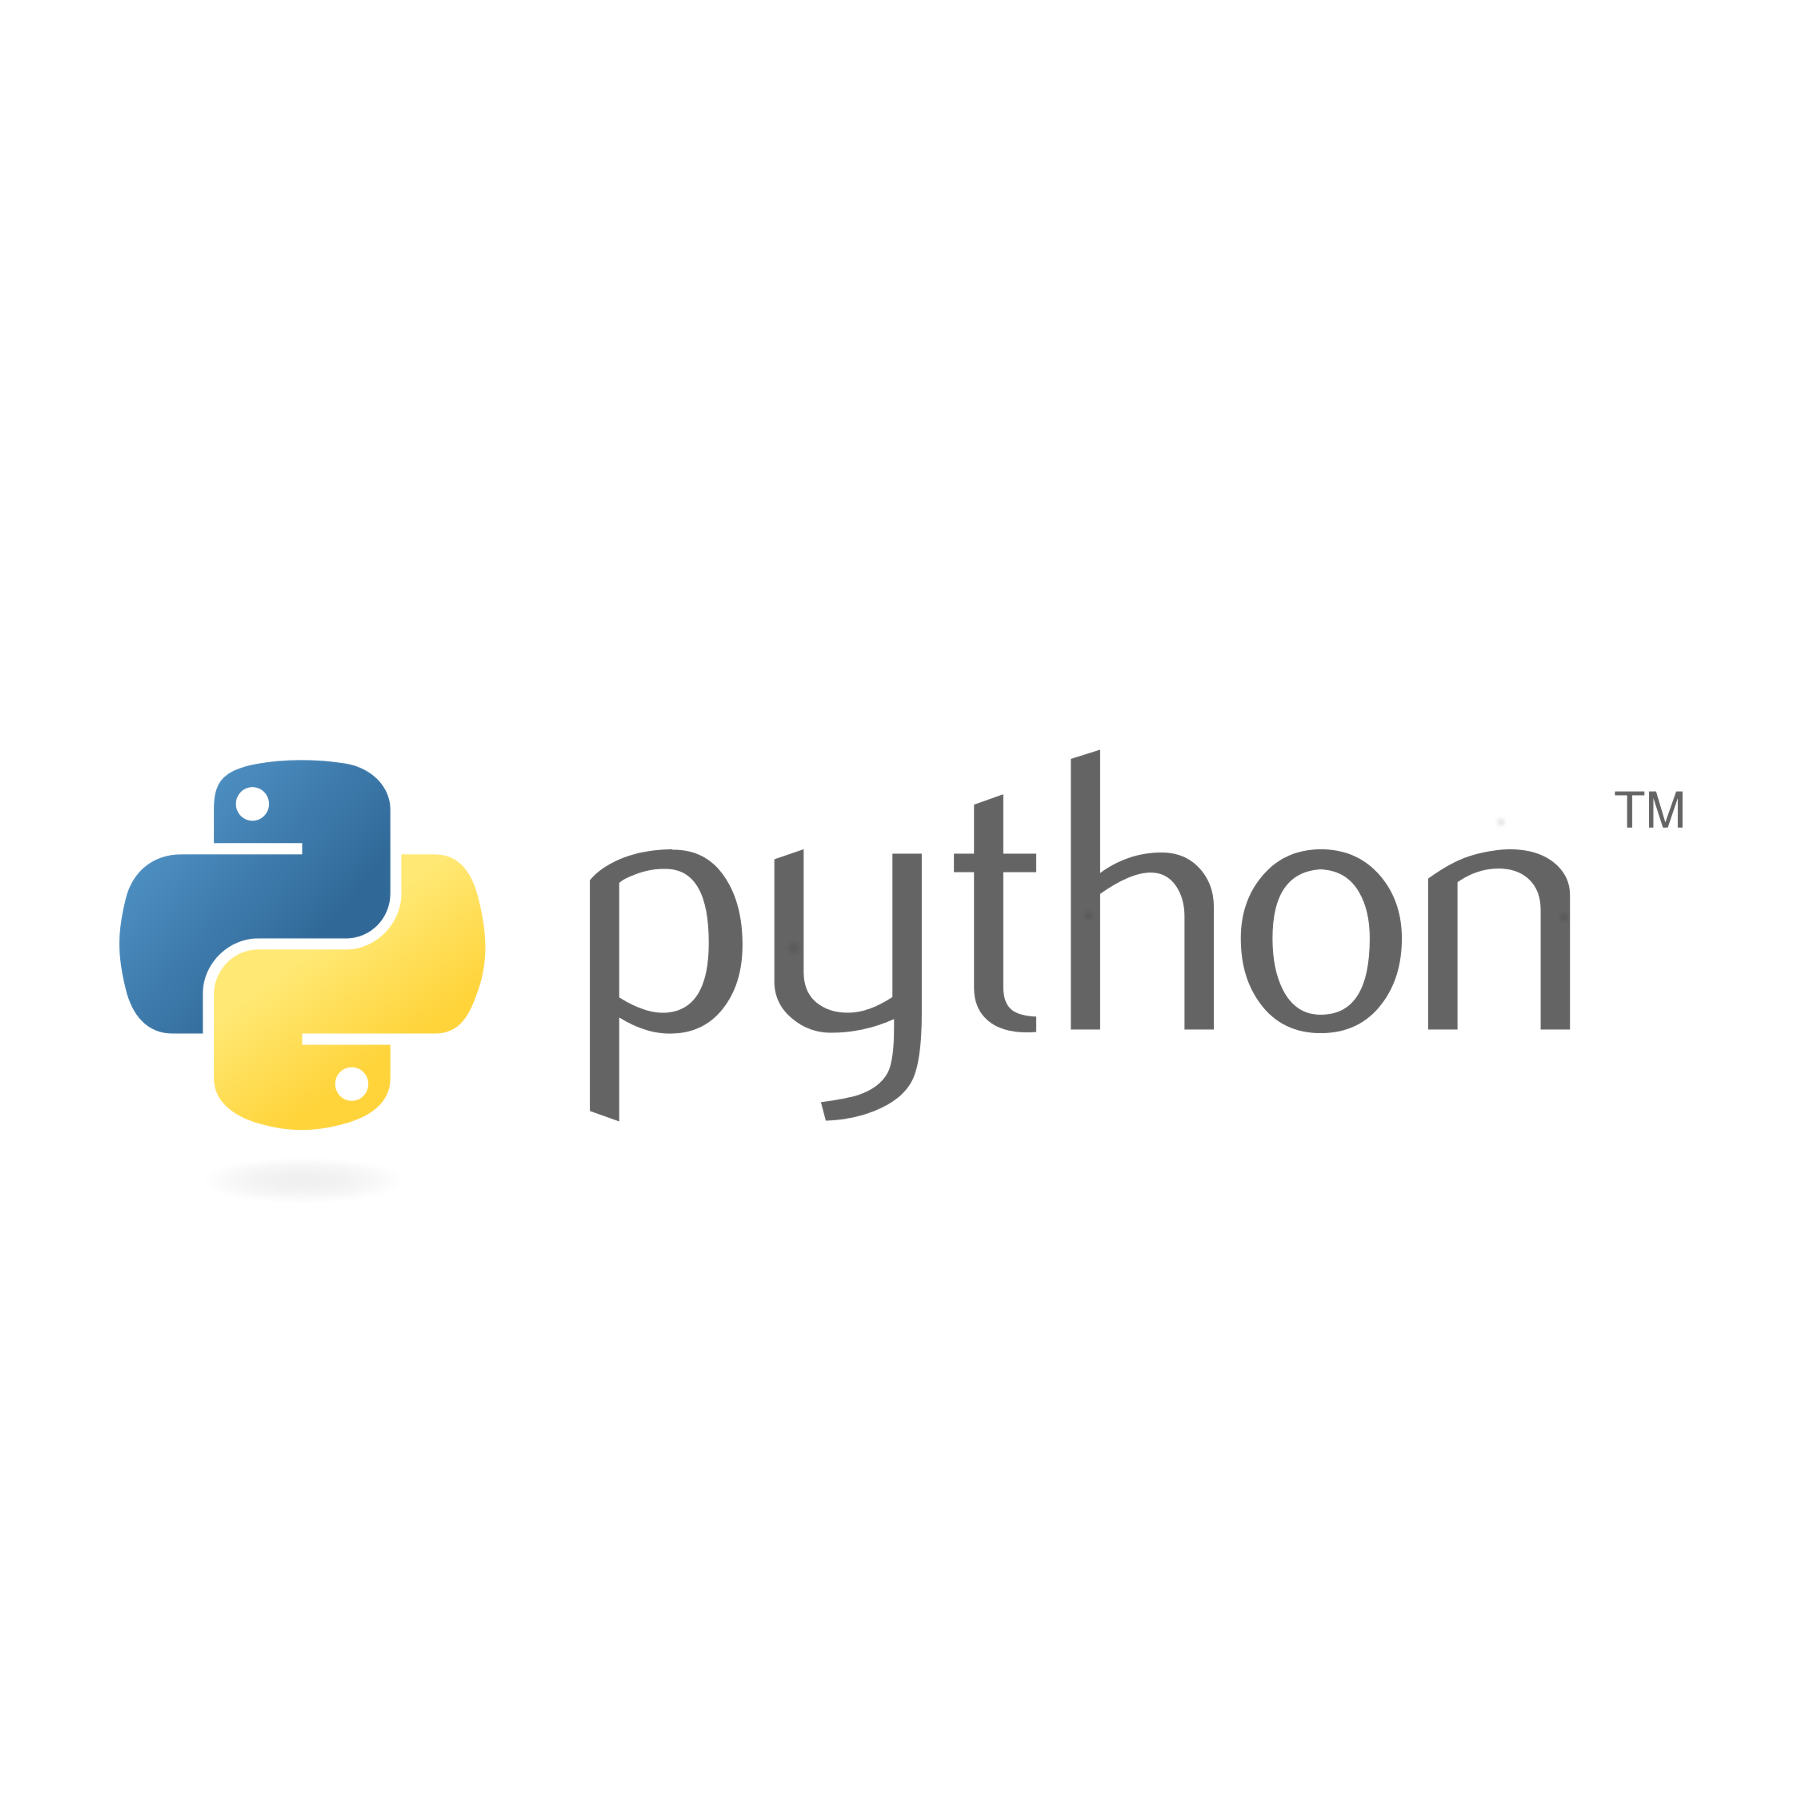
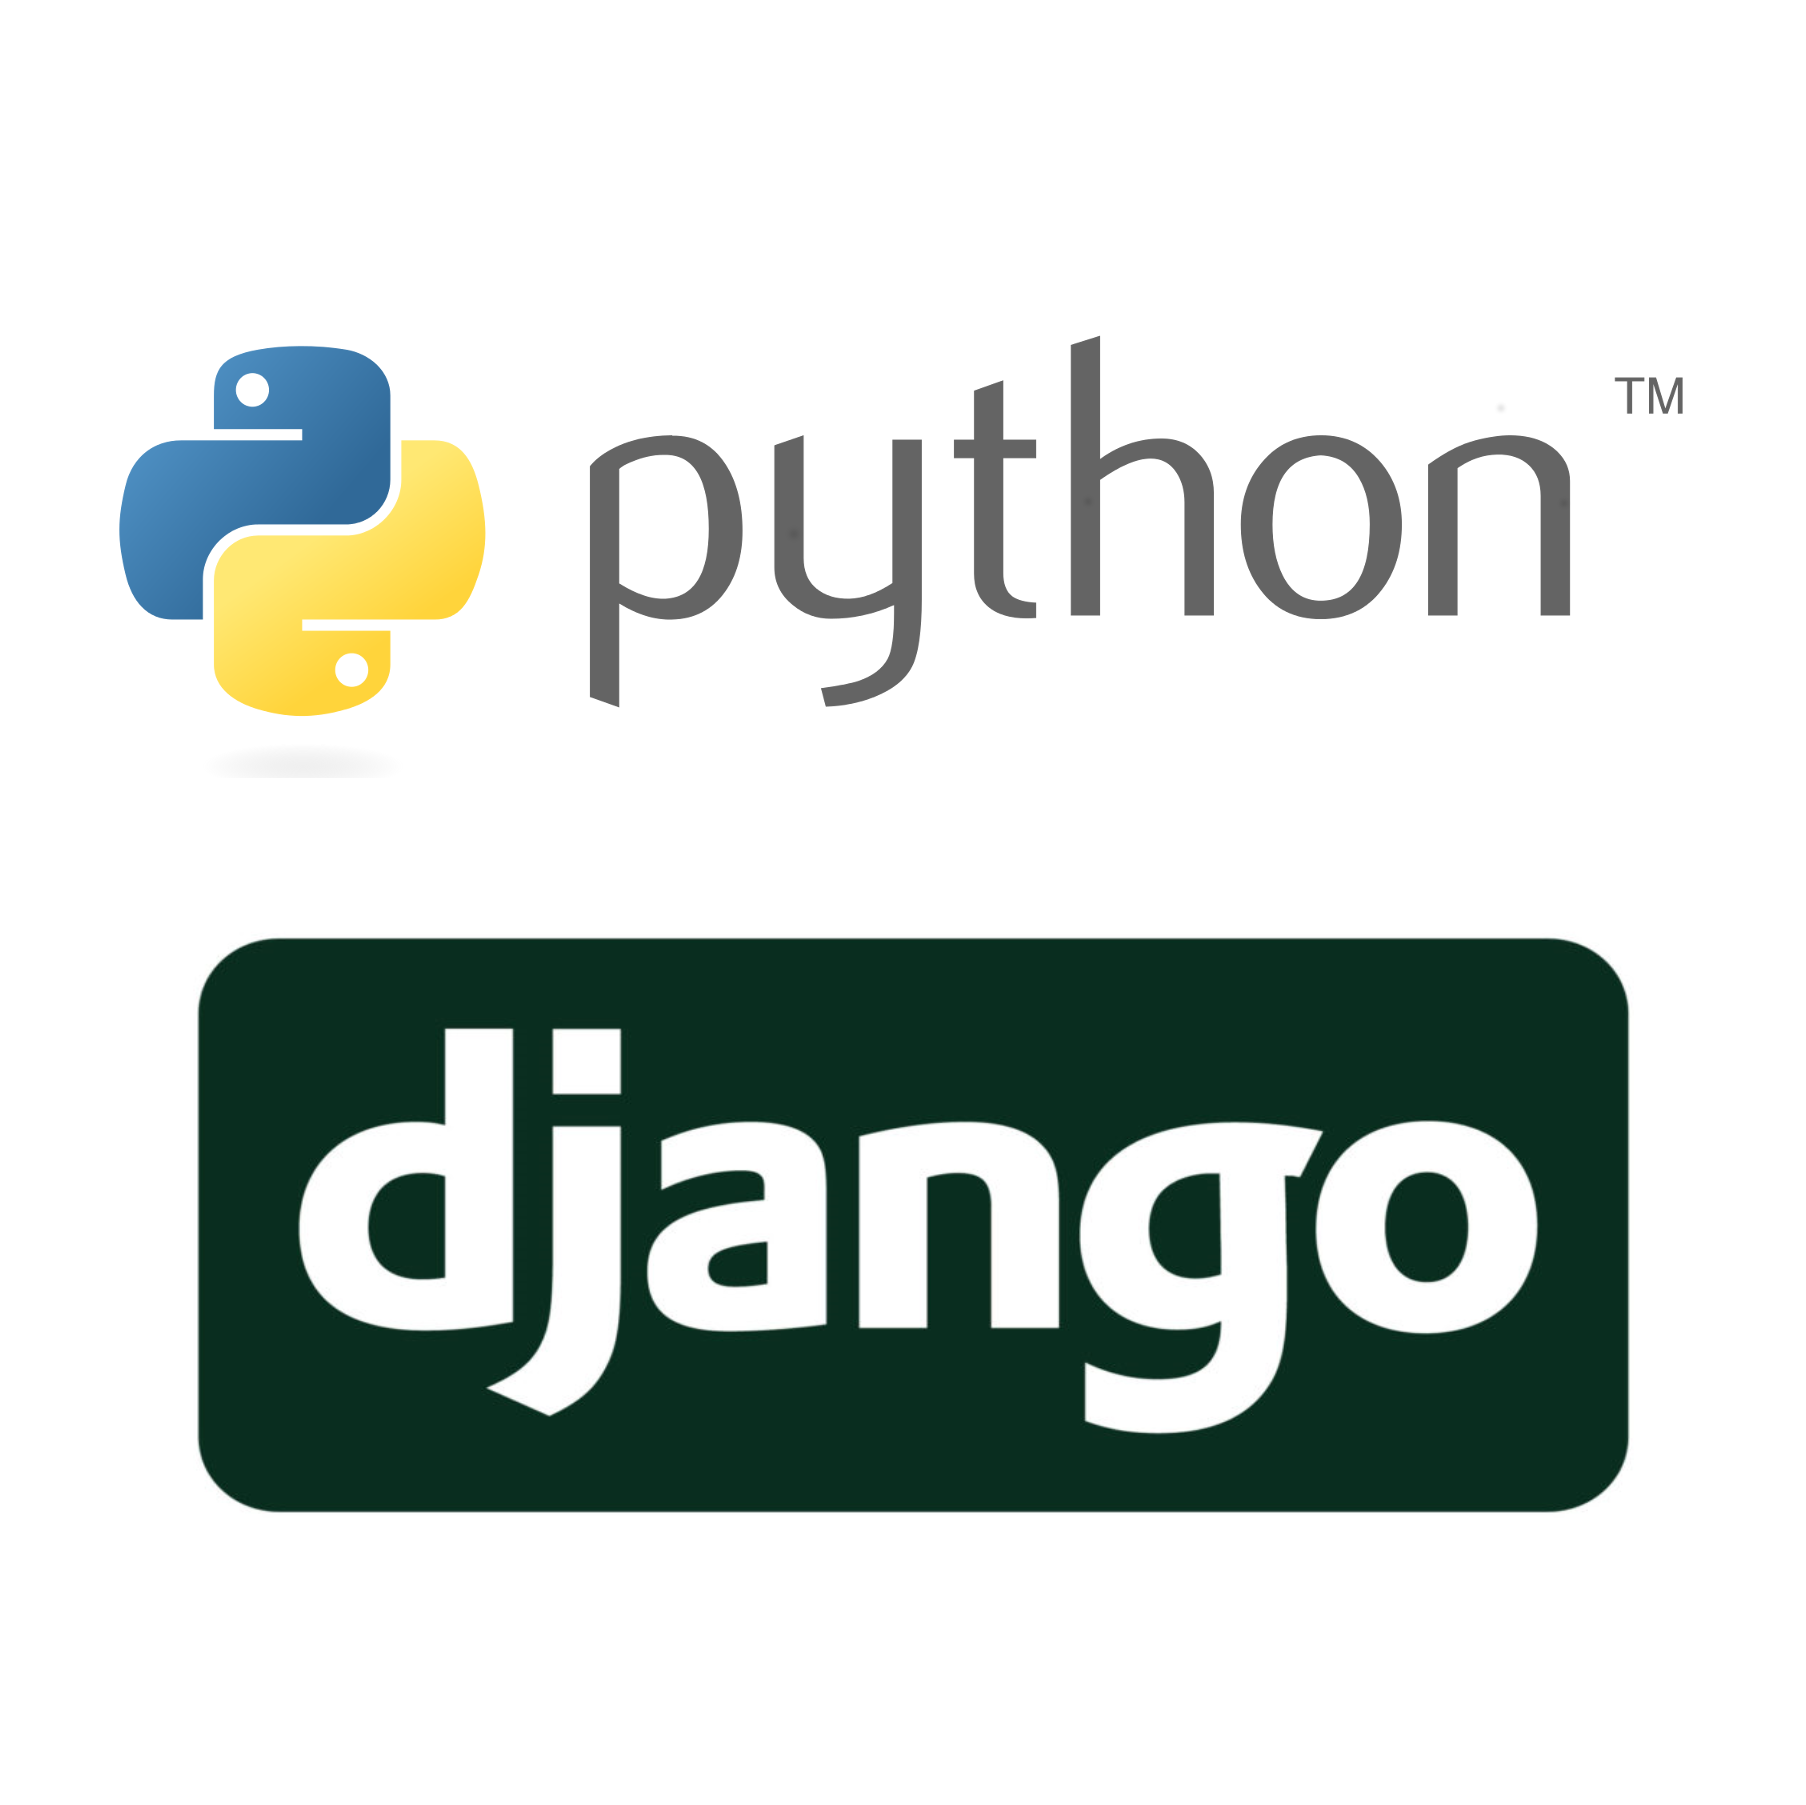
Updated two files
Updated index.html and the python.png image

diff --git a/index.html b/index.html
@@ -67,7 +67,7 @@
                     <!--SLIDE 3-->
                     <div class="mySlides fade">
                         <img class="Slideshow_Images" src="images/Python.png" alt="Python logo">
-                        <div class="text">the popular programming language Python,</div>
+                        <div class="text">the popular programming language Python and the web framework Django,</div>
                     </div>
                     <!--SLIDE 4-->
                     <div class="mySlides fade">
